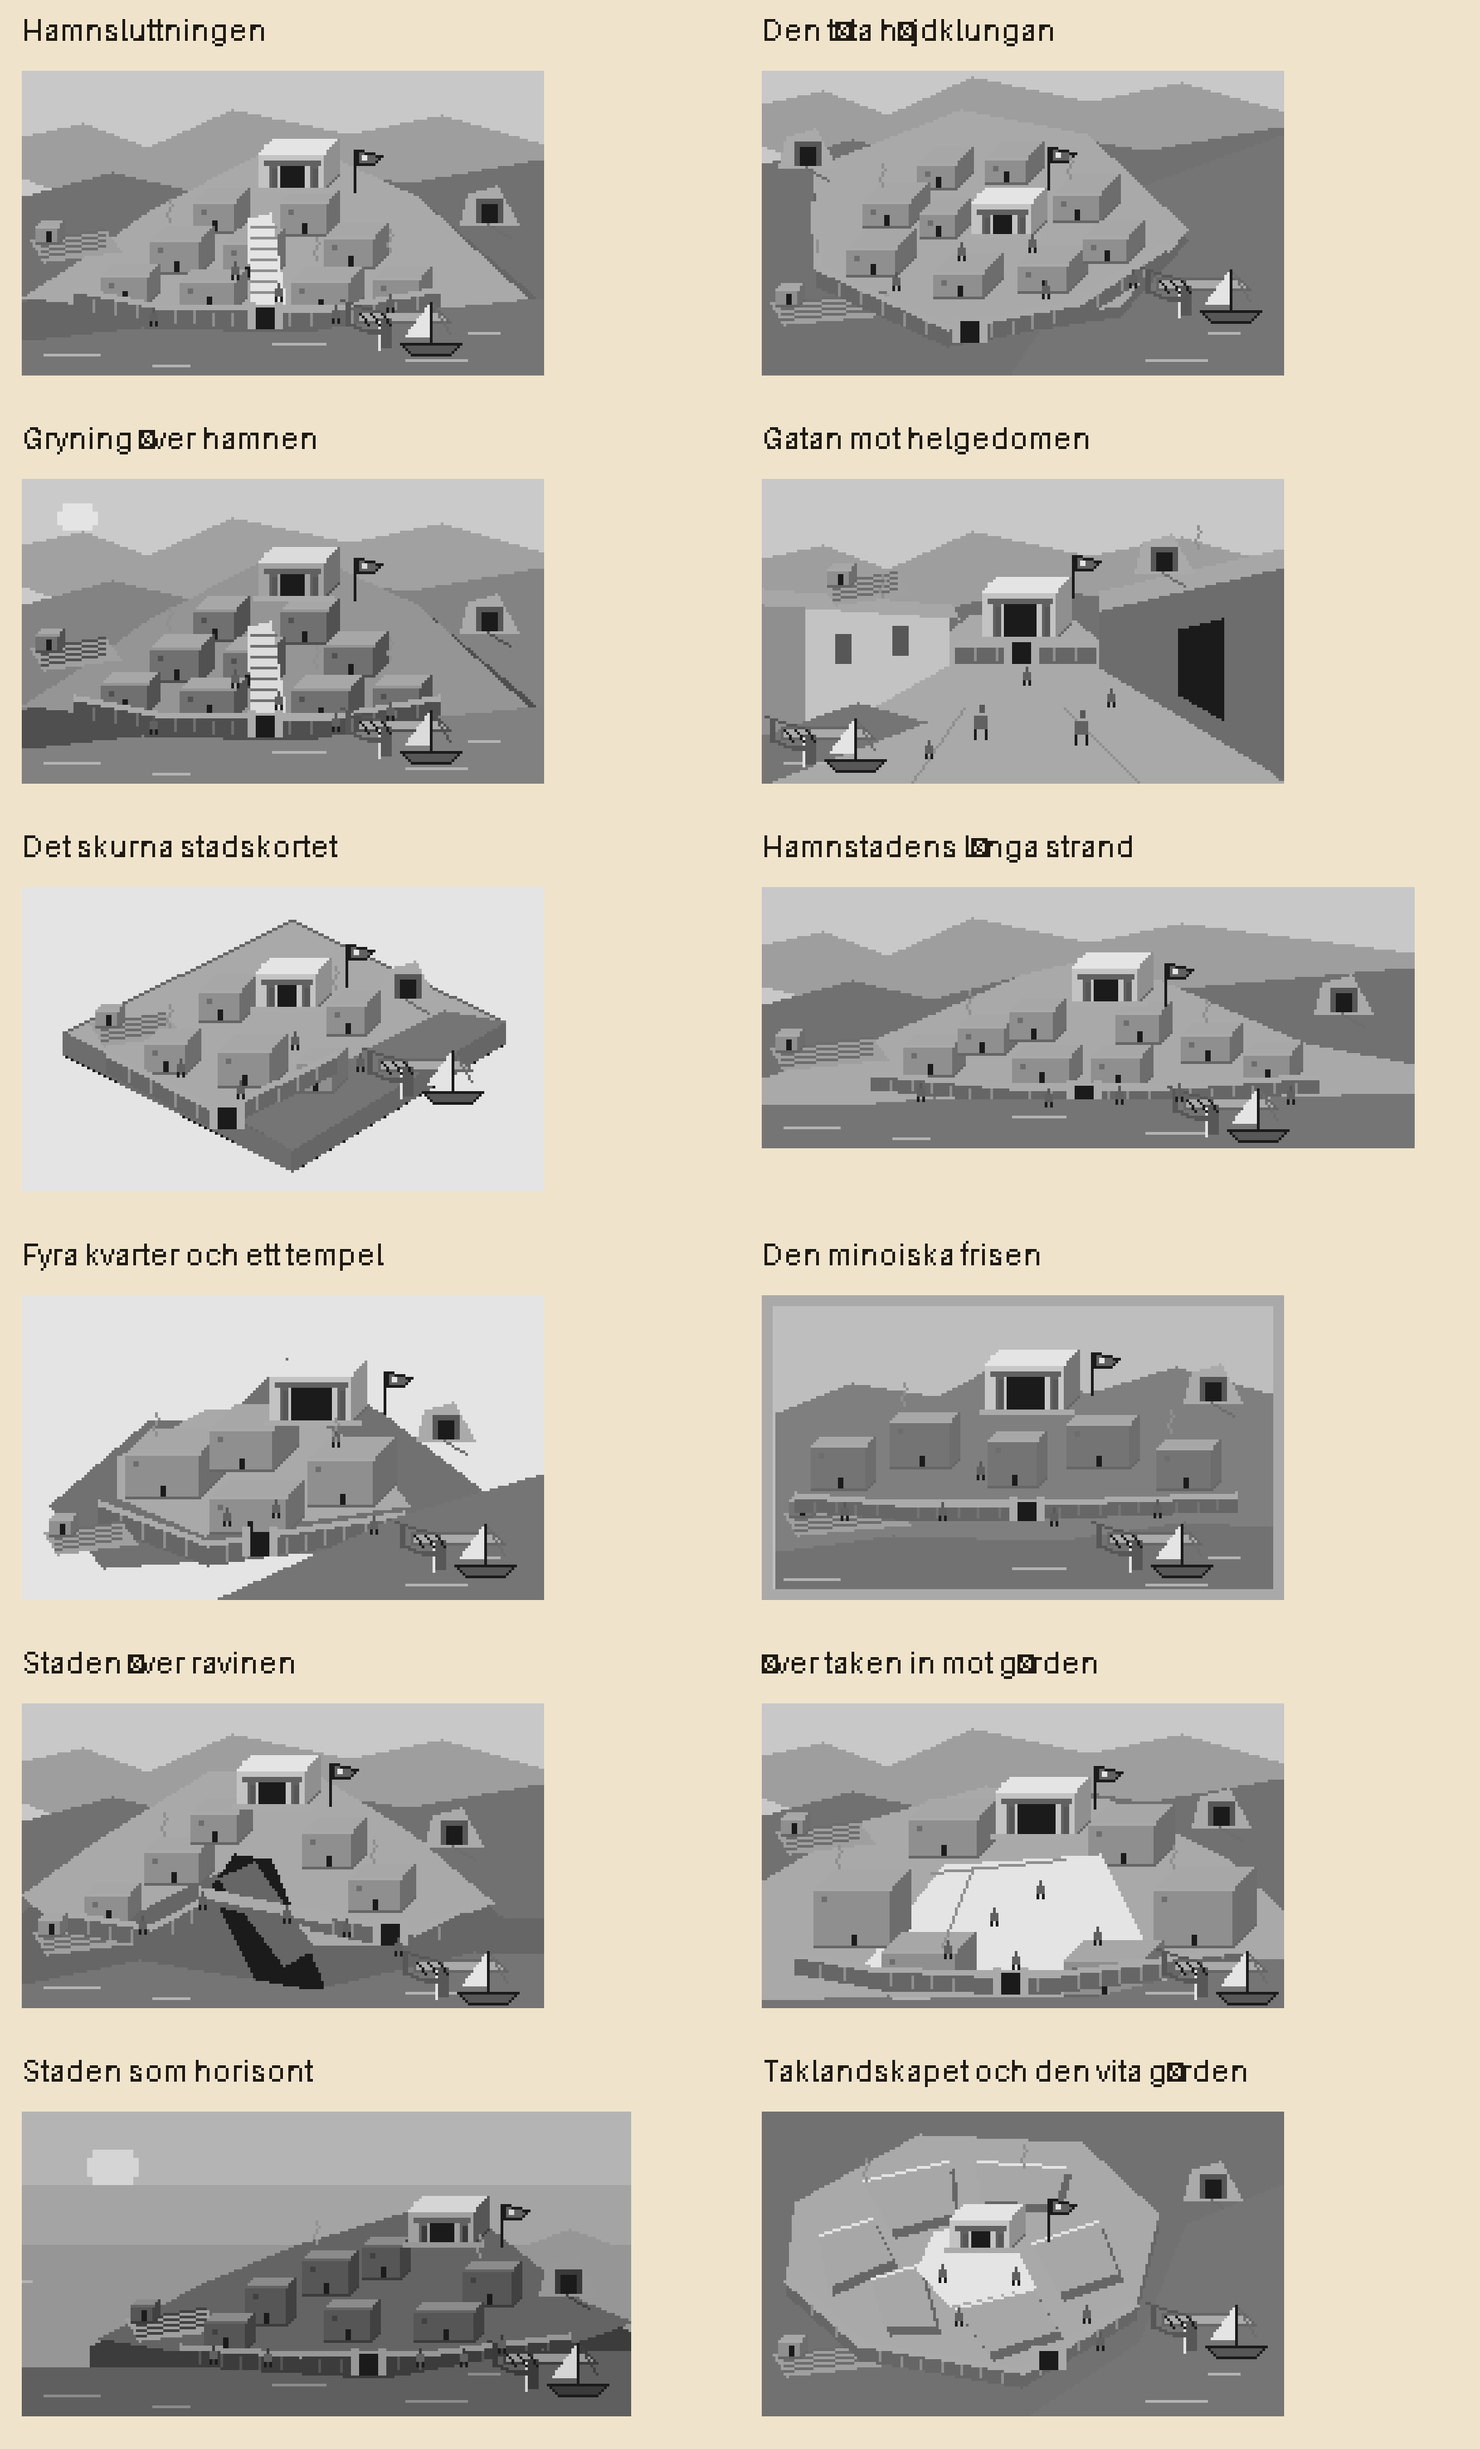
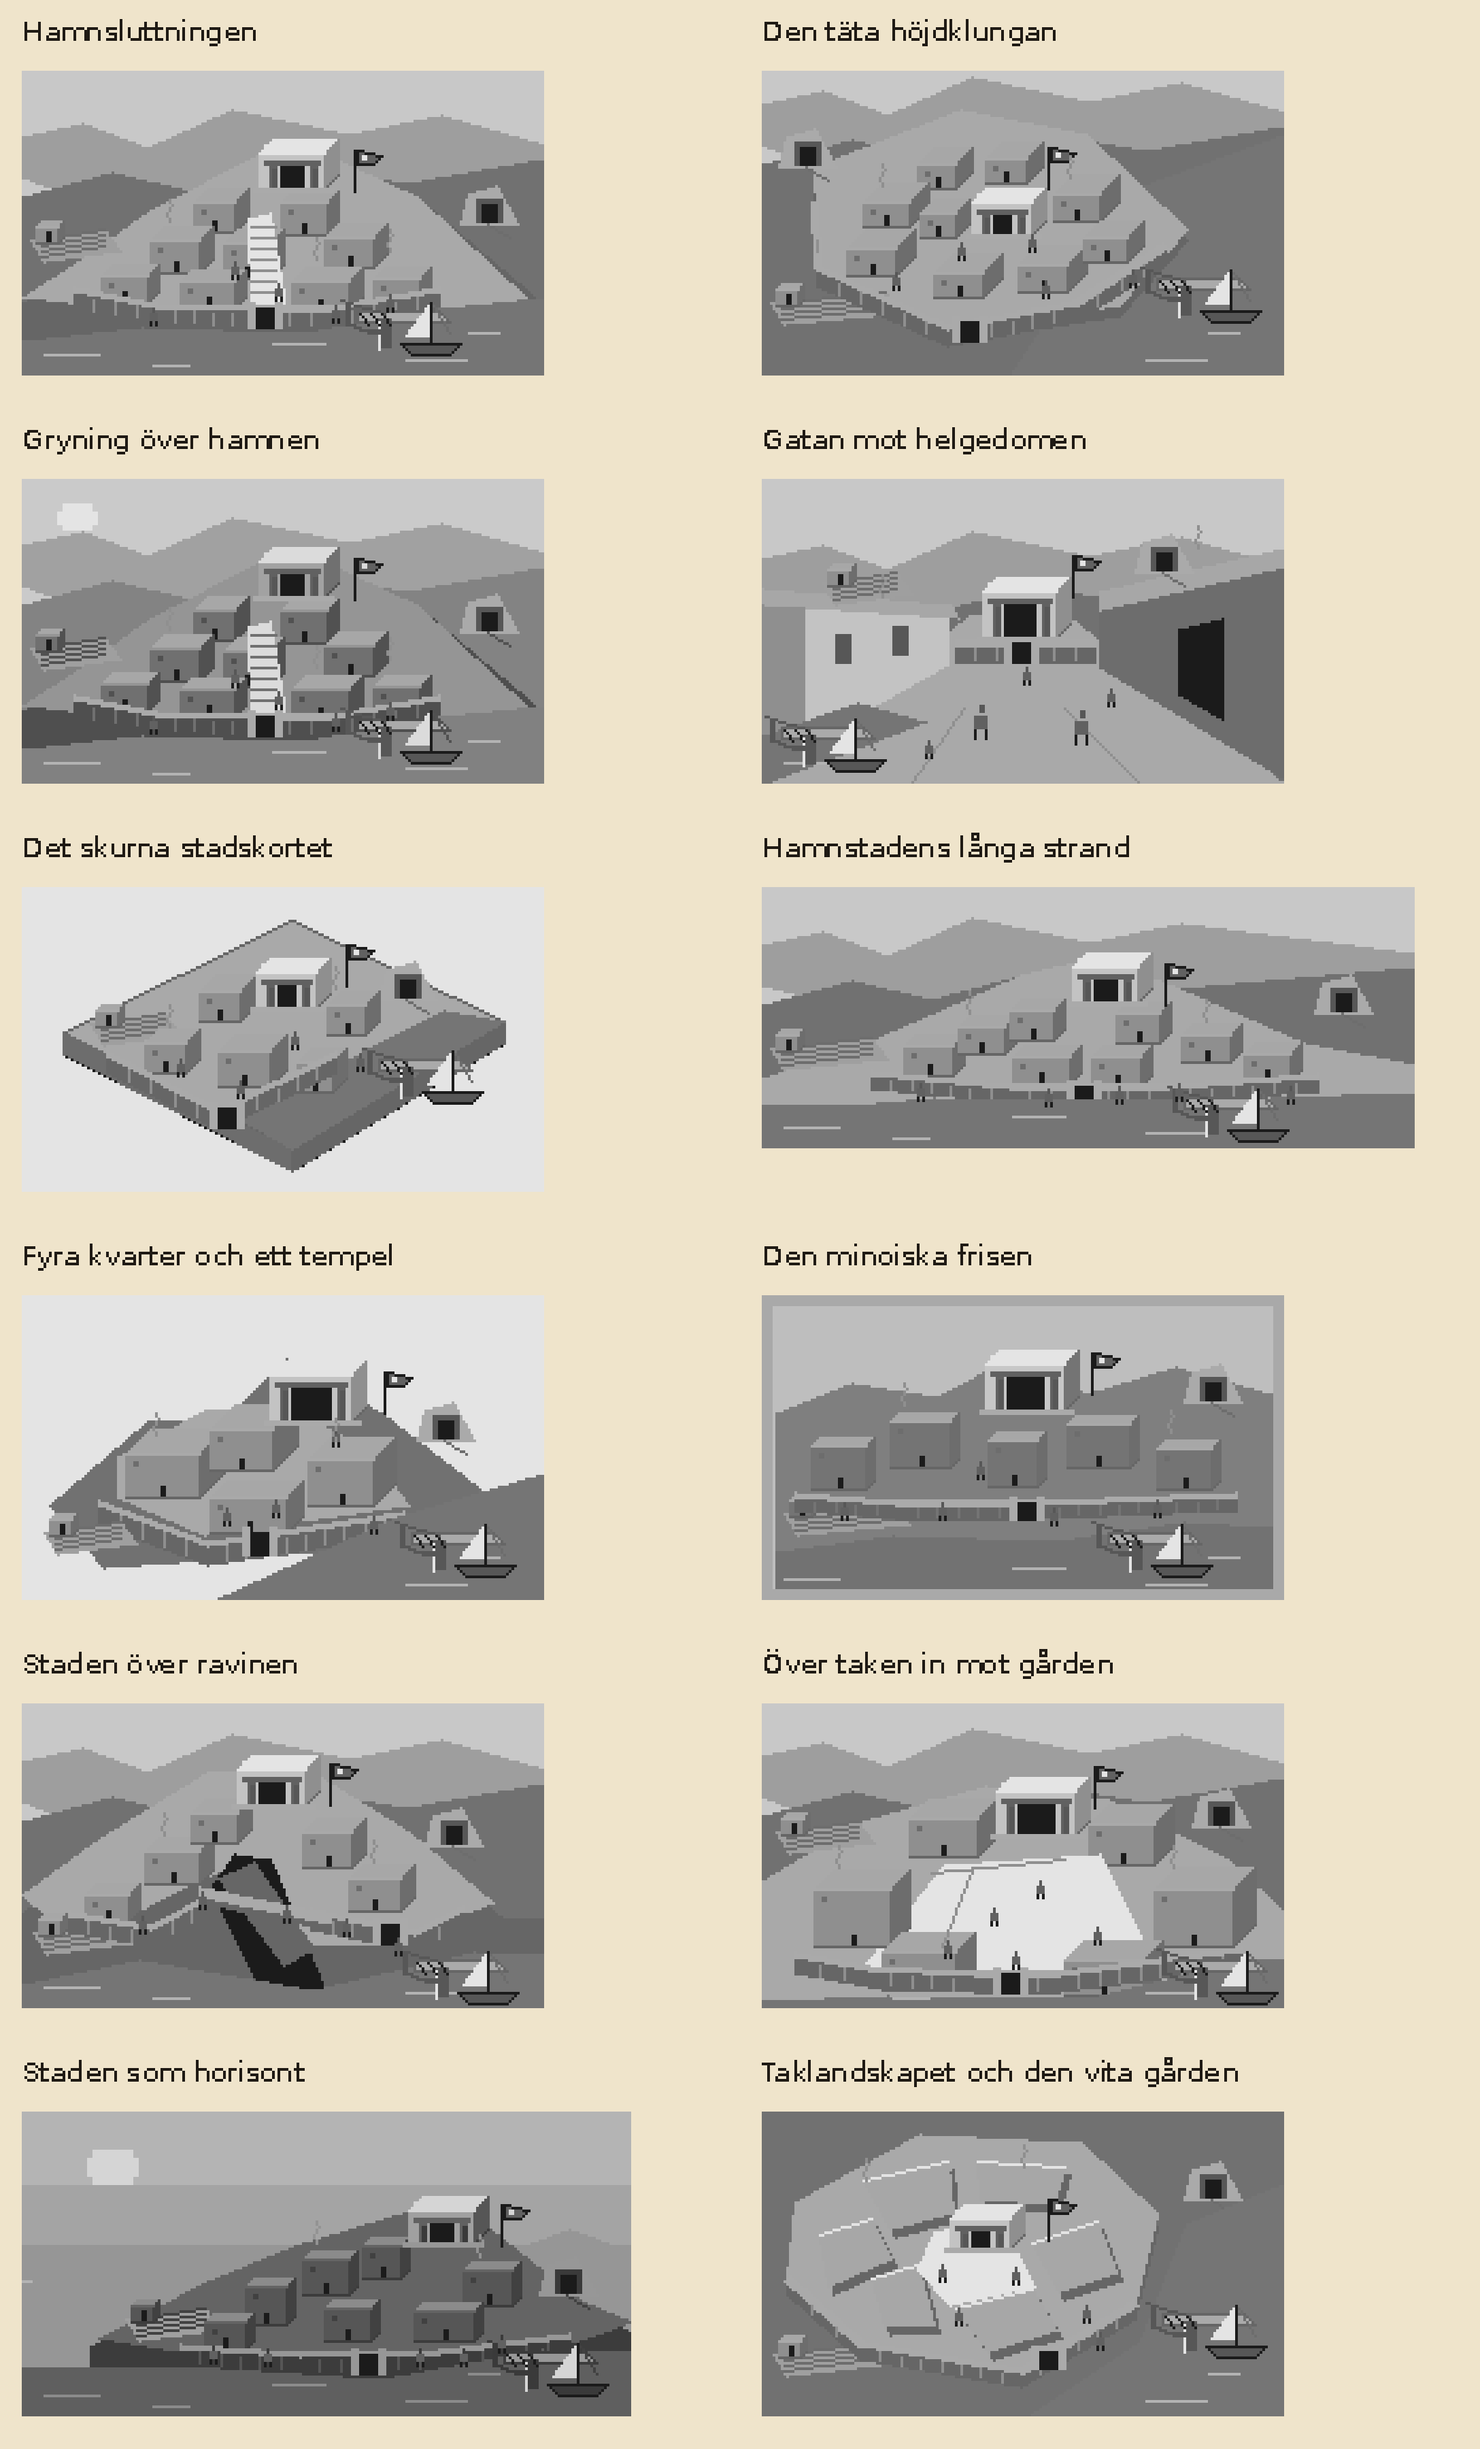
docs: render Swedish contact-sheet labels with DejaVu Sans

diff --git a/docs/reviews/stadsvy-alternativ/generate.py b/docs/reviews/stadsvy-alternativ/generate.py
@@ -4,7 +4,7 @@ Run: python3 docs/reviews/stadsvy-alternativ/generate.py
 Requires Pillow. All output stays beside this file. No game assets are imported.
 """
 from pathlib import Path
-from PIL import Image, ImageDraw, ImageOps
+from PIL import Image, ImageDraw, ImageOps, ImageFont
 import hashlib
 import html
 import json
@@ -376,9 +376,9 @@ def main():
             if state=='normal':cards.append(card+f'<p>{html.escape(desc)}</p><a href="{stem}.png">Logisk PNG</a> · <a href="{stem}-4x.png">×4 PNG</a></figure>')
             if ident in FAVOURITES:status_cards.append(card+'</figure>')
     for name,items in [('kontaktark',thumbs),('graskala',grays)]:
-        sheet=Image.new('RGB',(2*272,((len(items)+1)//2)*150),'#EFE4CB');d=ImageDraw.Draw(sheet);d.fontmode='1'
+        sheet=Image.new('RGB',(2*272,((len(items)+1)//2)*150),'#EFE4CB');d=ImageDraw.Draw(sheet);d.fontmode='1';font=ImageFont.truetype('DejaVuSans.ttf',10)
         for i,(title,im) in enumerate(items):
-            x=(i%2)*272;y=(i//2)*150;d.text((x+8,y+5),title,fill='#1F1A14');sheet.paste(im,(x+8,y+26))
+            x=(i%2)*272;y=(i//2)*150;d.text((x+8,y+5),title,fill='#1F1A14',font=font);sheet.paste(im,(x+8,y+26))
         save_pair(sheet,name)
     (OUT/'manifest.json').write_text(json.dumps(manifest,ensure_ascii=False,indent=2)+'\n')
     page='''<!doctype html><html lang="sv"><meta charset="utf-8"><meta name="viewport" content="width=device-width,initial-scale=1"><title>Phaistos — tolv stadsvyer</title>

diff --git a/docs/reviews/stadsvy-alternativ/README.md b/docs/reviews/stadsvy-alternativ/README.md
@@ -47,7 +47,7 @@ python3 docs/reviews/stadsvy-alternativ/verify.py
 python3 -m http.server 8765 --directory /tmp/megaron-codex-stadsvy-alternativ-20261018
 ```
 
-Öppna `http://127.0.0.1:8765/docs/reviews/stadsvy-alternativ/index.html` i Firefox vid 100 %. Generatorn kräver Pillow (använt 12.3.0); browserkontrollen kräver Python Playwright med Firefox. Efter clone/worktree på annan plats ändras bara serverkommandots katalog. Generator och verifierare hittar roten själva.
+Öppna `http://127.0.0.1:8765/docs/reviews/stadsvy-alternativ/index.html` i Firefox vid 100 %. Generatorn kräver Pillow (använt 12.3.0) och DejaVu Sans (`DejaVuSans.ttf`, för svenska rubrikglyfer; hård rastertext utan kantutjämning); browserkontrollen kräver Python Playwright med Firefox. Efter clone/worktree på annan plats ändras bara serverkommandots katalog. Generator och verifierare hittar roten själva.
 
 ## METODISK LÄRDOM
 
@@ -63,3 +63,5 @@ python3 -m http.server 8765 --directory /tmp/megaron-codex-stadsvy-alternativ-20
 - Husen är fortfarande förenklade och flera bilder använder samma byggnadsfamilj. 03 är ett kontrollerat färgprov, inte ett ytterligare kameragrepp. 12 varierar kvartersriktning mer än de tidigare kuberna.
 - Svält läses huvudsakligen genom frånvaro av liv/härdar och stängd matplats; det kan vara för svagt utan jämförelsebild. Stadens exakta storlek och vissa funktioner läses svagare i 04. Mänsklig snabbidentifiering av byggnader eller status är ännu inte testad.
 - Baslinjebilden kör den oförändrade renderern med en syntetisk fixtur. Inga API-/DB-bevis eller påståenden om live-Phaistos ingår.
+
+Granskningsrättelse efter första handoff: kontaktarkets standardfont ersatt med explicit DejaVu Sans för å/ä/ö. Motivens PNG är byte-identiska; bara kontaktarken och deras hashvärden ändras.
